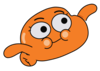
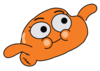
docs(design): Darwin swimming outline fitted by measurement, parallel fin strokes (NAK-353)

Changed region(s): [[0.18, 0.0845, 0.78, 0.5915], [0.39, 0.2817, 0.9, 0.8732], [0.24, 0.8169, 0.33, 0.9296]]

diff --git a/docs/design/darwin/build.py b/docs/design/darwin/build.py
@@ -68,11 +68,17 @@ def front():
     ])
 
 
-# Swimming view, traced in the 680x480 crop of the swimming reference.
-SWIM_PTS = [(380, 48), (430, 56), (462, 80), (484, 106), (508, 104), (545, 116), (580, 150), (598, 200),
-            (596, 250), (570, 295), (525, 332), (470, 360), (410, 385), (350, 402), (290, 412),
-            (240, 405), (195, 380), (160, 340), (142, 290), (140, 240), (155, 190), (190, 140),
-            (240, 100), (300, 68), (340, 54)]
+# Swimming view, in the 680x480 crop of the swimming reference. Body outline:
+# 48 rays cast every 7.5 degrees from (370, 230), clockwise from the top, onto
+# the reference outline, inset by half the stroke. Rays that leave through the
+# leg, the arm or the tail fin (8 of 48) keep the hand-traced radius.
+SWIM_PTS = [(370, 55), (393, 55), (416, 59), (437, 67), (455, 82), (470, 100), (489, 111), (529, 108), (555,
+            123), (575, 145), (588, 172), (595, 200), (596, 230), (584, 258), (569, 283), (545,
+            303), (524, 319), (501, 331), (481, 341), (461, 349), (445, 359), (427, 367), (409,
+            374), (390, 381), (370, 387), (348, 396), (324, 403), (296, 409), (266, 411), (237,
+            404), (210, 390), (185, 372), (165, 348), (151, 321), (142, 291), (147, 259), (152,
+            230), (162, 203), (177, 178), (193, 157), (211, 138), (231, 123), (249, 109), (267, 96),
+            (286, 85), (306, 75), (326, 67), (348, 59)]
 
 
 def swim():
@@ -87,7 +93,7 @@ def swim():
         # Tail fin under the arm, then the arm reaching forward; both open
         # paths so the joint with the body carries no outline.
         '<path d="M150 352c-28 30-10 80 30 92 36 10 66-6 70-36" fill="%s" %s/>' % (BODY, s),
-        '<path d="M158 392l26 12M172 408l20 18M192 420l14 22" fill="none" %s/>' % s,
+        '<path d="M158 392l22 12M170 408l22 12M184 422l22 12" fill="none" %s/>' % s,
         '<path d="M218 318C160 288 92 288 50 320c-35 25-30 65 0 70 35 2 60-25 100-40L200 372" fill="%s" %s/>' % (BODY, s),
         '<ellipse cx="275" cy="205" rx="70" ry="56" transform="rotate(-12 275 205)" fill="%s" %s/>' % (WHITE, s),
         '<ellipse cx="418" cy="155" rx="67" ry="62" fill="%s" %s/>' % (WHITE, s),

diff --git a/docs/design/darwin/README.md b/docs/design/darwin/README.md
@@ -55,10 +55,17 @@ being the ratio of the two body masks, 715 px against 406 px wide).
   reference draws a tapered wedge; pupils are pure ink where the printed
   frame shows dark grey; colours come from the swimming frame, the poster
   being a desaturated print (body `#d67028` there).
-- Swimming: outline, eyes, cheeks, arm and leg lie on the reference within
-  about 10 px in the 680 space (edge overlay, by eye); our body is 2.8 %
-  shorter. Brows are neutral on purpose (the reference frowns), so the eye
-  tops are not cut by the brow. The mouth is a single curve; the reference
-  has a kink.
+- Swimming: the body outline is fitted by 48 rays onto the reference
+  (`SWIM_PTS` in `build.py`), 39 rays measured and 9 kept from the hand
+  tracing where the leg, the arm or the tail fin hide the edge. Before the
+  fit our outline was 9.1 px too far out on average (14.2 px at worst) in
+  the 680 space; after it the same measurement gives 0.6 px on average and
+  4.0 px at worst. Eyes, cheeks, arm and leg are still placed by eye, within
+  about 10 px. The low fin is smaller than on the reference and the left
+  eye slightly smaller. Brows are neutral on purpose (the reference
+  frowns). The mouth is a single curve; the reference has a kink.
+- Outline weight: 7 px in the 729 space and 5 px in the 680 space. The two
+  bodies are 670 px and 460 px wide in their spaces, so the stroke is 1.04 %
+  and 1.09 % of the body width: the same weight on the character.
 - No three-quarter or true side view: no reference shows one. Shoes are not
   drawn: no reference shows them.
